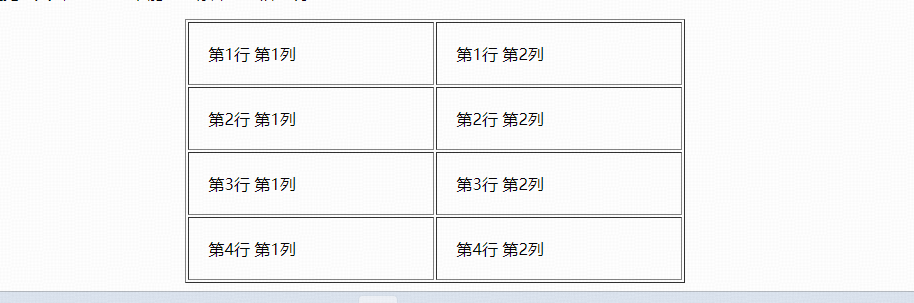
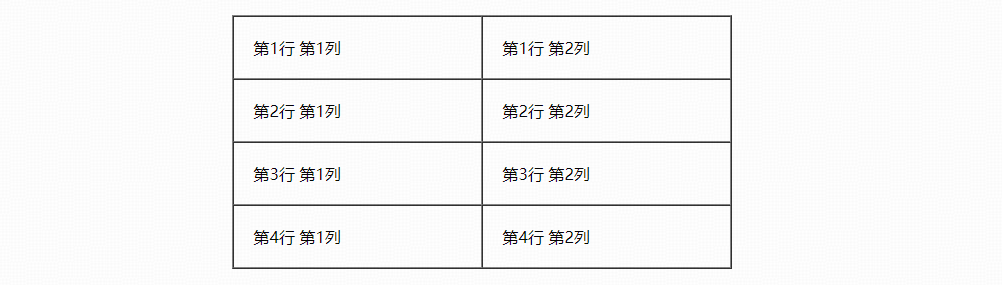
2024-10-17

Changed region(s): [[0.0, 0.0281, 1.0, 1.0]]

diff --git a/Frontend/01.HTML5.md b/Frontend/01.HTML5.md
@@ -183,6 +183,10 @@ HTML提供了6个等级的网页标题，即`<h1>`-`<h6>`。
 
 
 
+
+
+
+
 # 3 表格、列表和表单
 
 ## 3.1 表格
@@ -217,7 +221,7 @@ HTML提供了6个等级的网页标题，即`<h1>`-`<h6>`。
 编写一个在页面中居中、有边框、规定单元边沿与其内容之间的空白为20像素、规定单元格之间的空白为0像素、宽度为500像素的表格。
 
 ```html
-<table align="center" border="1" cellspace="0" cellpadding="20" width="500">
+<table align="center" border="1" cellspacing="0" cellpadding="20" width="500">
     <tr><td>第1行 第1列</td><td>第1行 第2列</td></tr>
     <tr><td>第2行 第1列</td><td>第2行 第2列</td></tr>
     <tr><td>第3行 第1列</td><td>第3行 第2列</td></tr>
@@ -251,7 +255,7 @@ HTML提供了6个等级的网页标题，即`<h1>`-`<h6>`。
 
 有序列表和无序列表。
 
-|标签名       | 语义      | 说明                               |
+|标签名        | 语义      | 说明                               |
 |:-----------:|:---------:|:--------------------------------:|
 | `<ul></ul>` | 无序列表   | 里面只能包含`<li></li>`，没有顺序  |
 | `<ol></ol>` | 有序列表   | 里面只能包含`<li></li>`，有顺序    |
@@ -292,12 +296,56 @@ HTML提供了6个等级的网页标题，即`<h1>`-`<h6>`。
 
 ## 3.3 表单
 
-<!-- # 4 新增语义化标签
+一个完整的表单通常由表单域，表单控件（表单元素）和提示信息3部分组成
+
+![html-form-structure](./images/html-form-structure.png)
+
+### 3.3.1 表单域
+
+一个包含表单元素的区域。
+
+`<form></from>`标签用于定义表单域，浏览器会把它范围内的表单元素信息提交给服务器。
+
+```html
+<form action="url地址" method="提交方式" name="表单域的名称">
+    
+</form>
+```
+
+### 3.3.2 表单控件
+
+
+
+
+
+
+
+
+
+
+
+
+
+
+
+
+
+
+
+
+
+
+
+
+
+
+# 4 新增语义化标签
+
 页面的布局一般使用`<div>`标签，但是`<div>`对于搜索引擎来说，是没有语义的。
 
 新增语义化标签如下：
 
 ![html-new-tags](./images/html-new-tags.png)
--->
+
 
 

diff --git a/Frontend/00.Frontend积累总结.md b/Frontend/00.Frontend积累总结.md
@@ -98,3 +98,5 @@
 # 4 TypeScript
 
 # 5 NodeJS
+
+
